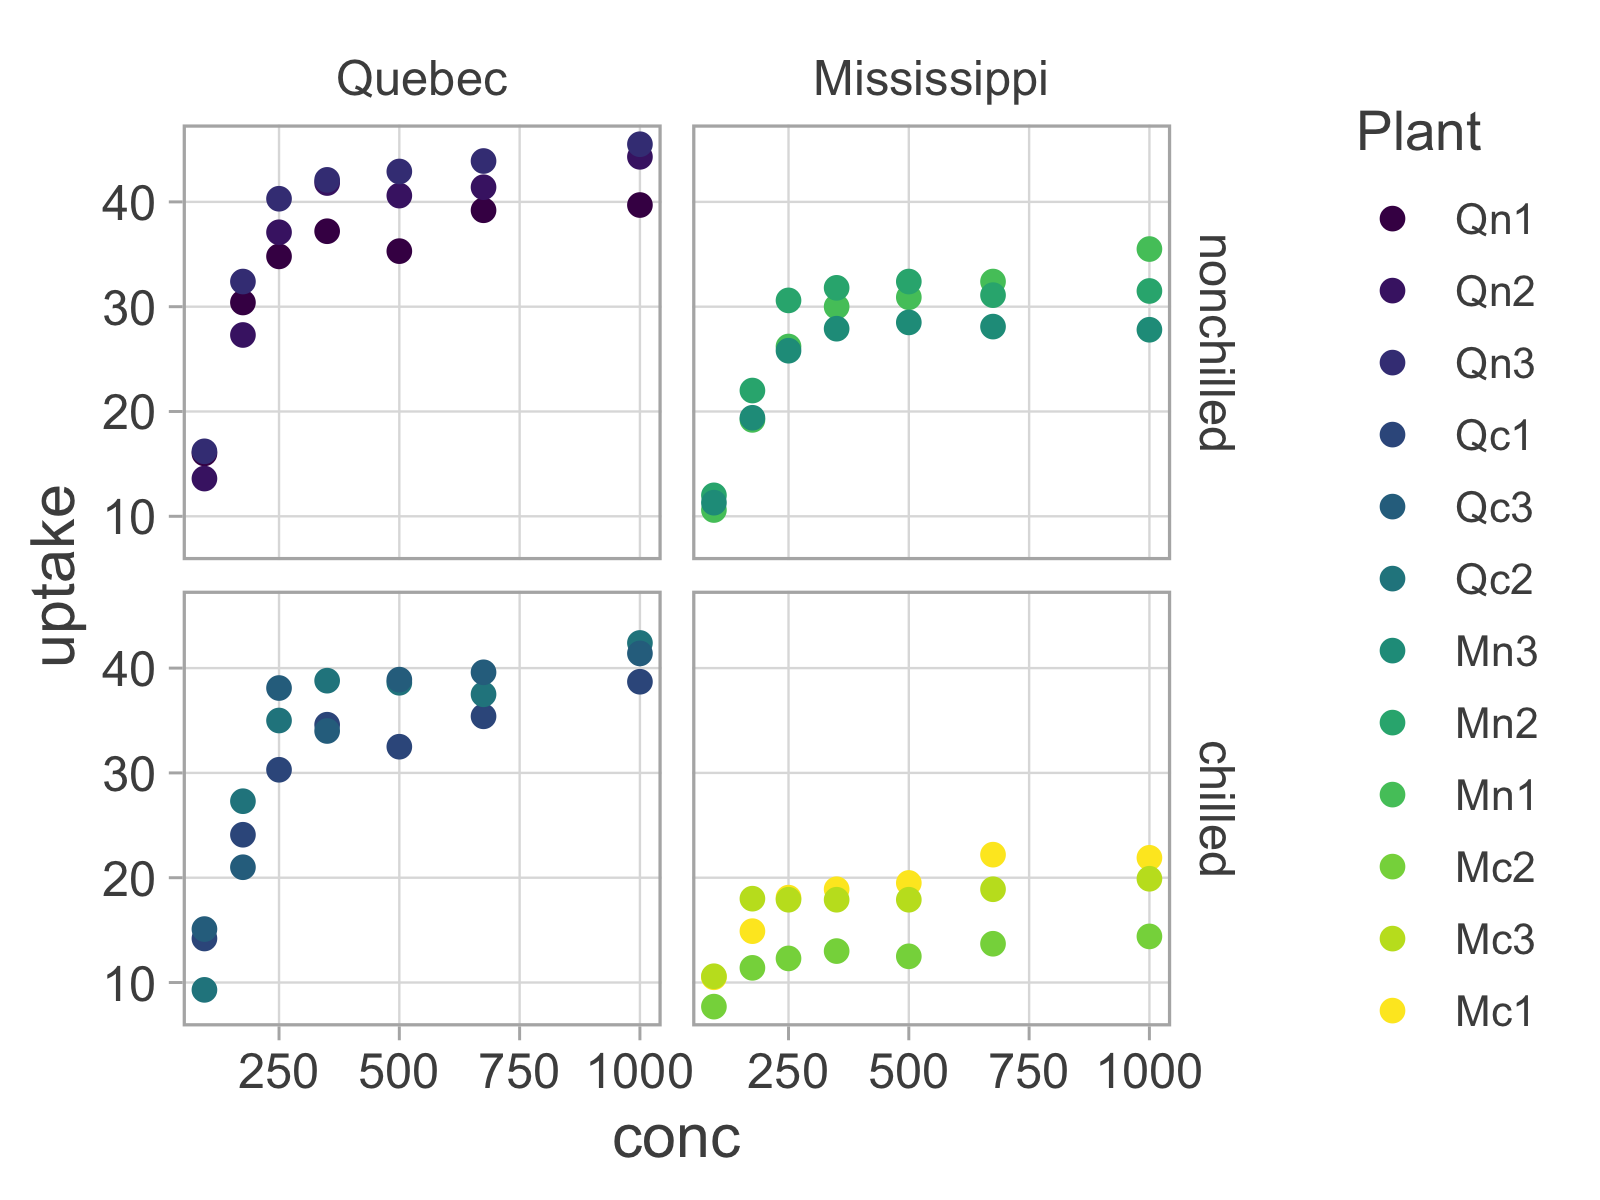
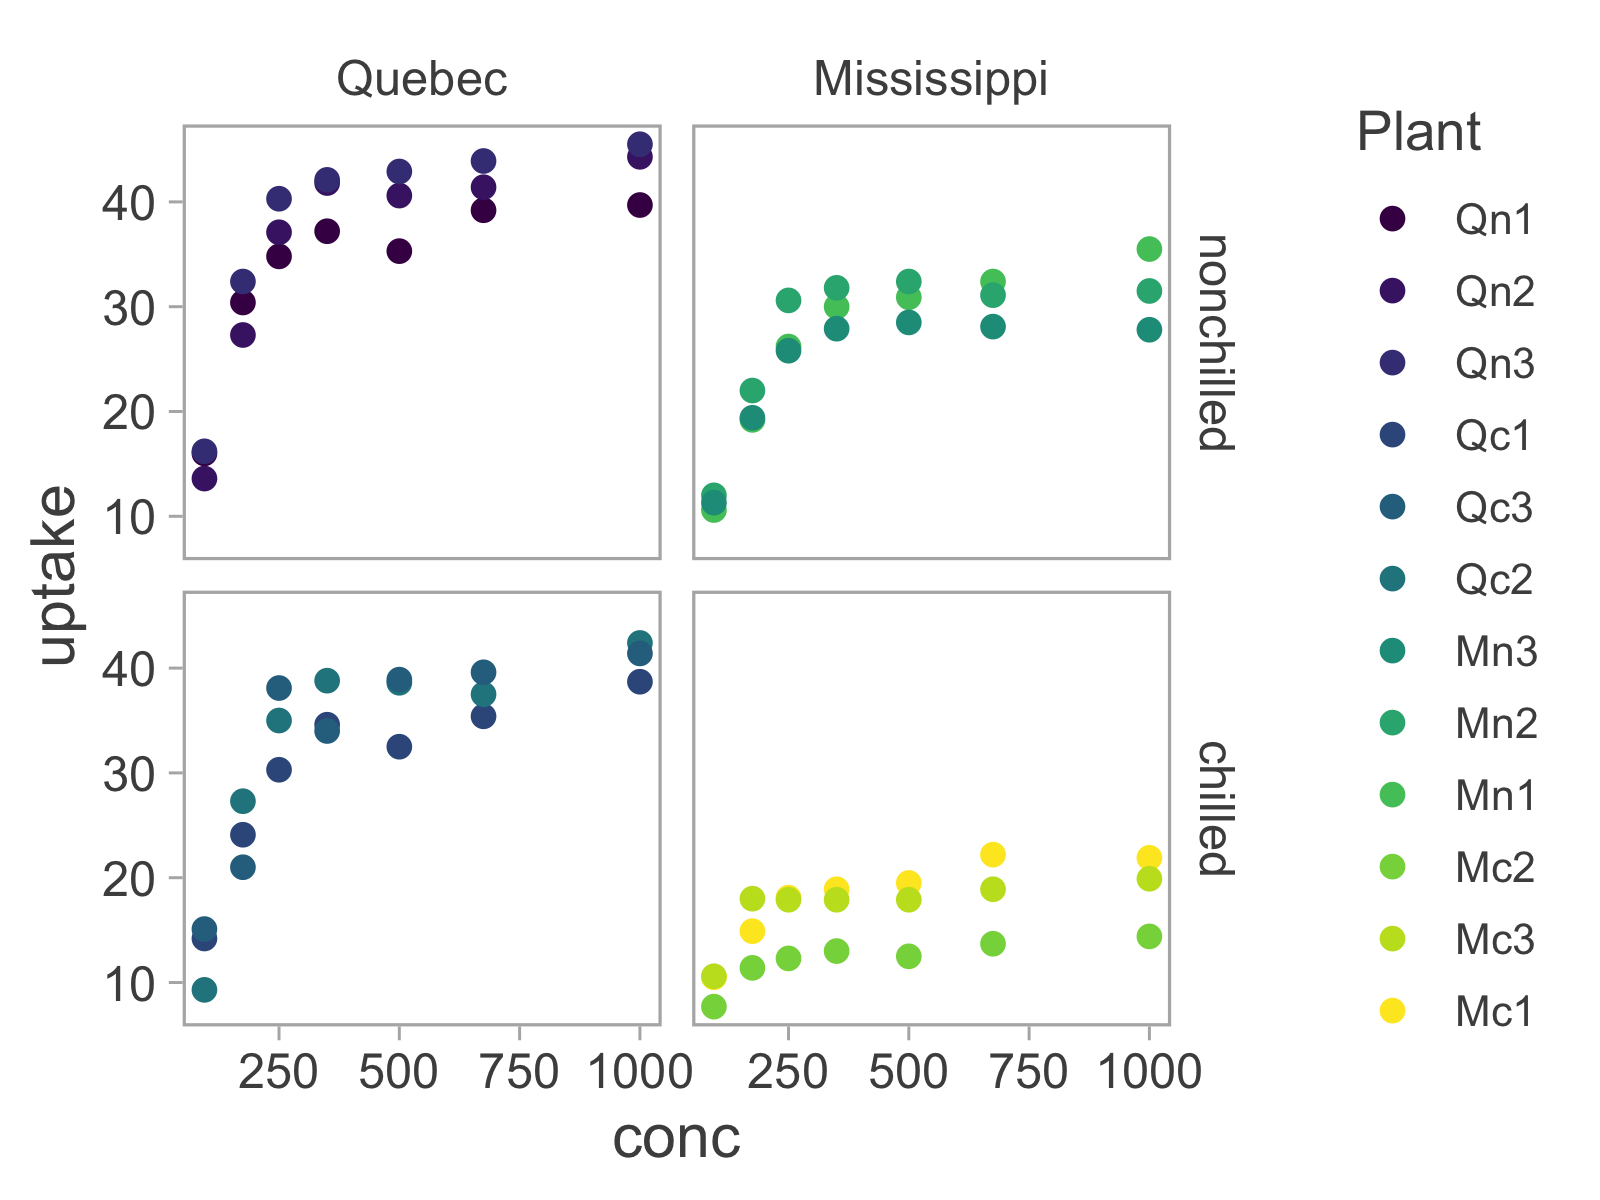
No grid lines on light readme image

diff --git a/README.md b/README.md
@@ -27,11 +27,11 @@ g <- ggplot(CO2) +
     facet_grid(Treatment ~ Type)
 
 ## Light mode (default)
-g + theme_simple(grid = TRUE)
+g + theme_simple()
 
 ## Dark mode
 g + theme_simple(grid = TRUE, mode = "dark")
 ```
 
-<img src="man/figures/light.png" width="672"/>
-<img src="man/figures/dark.png" width="672" />
+<img src="man/figures/light.png" width="600"/>
+<img src="man/figures/dark.png" width="600" />
